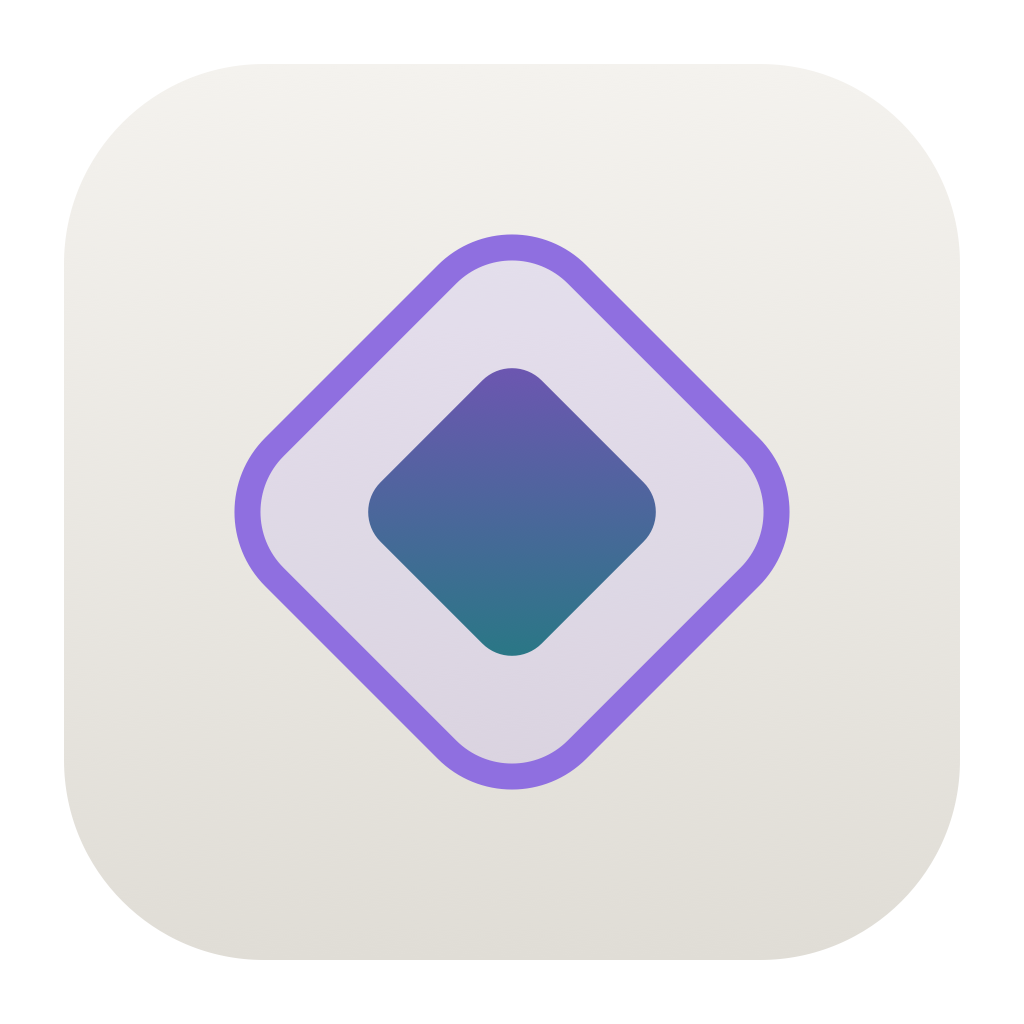
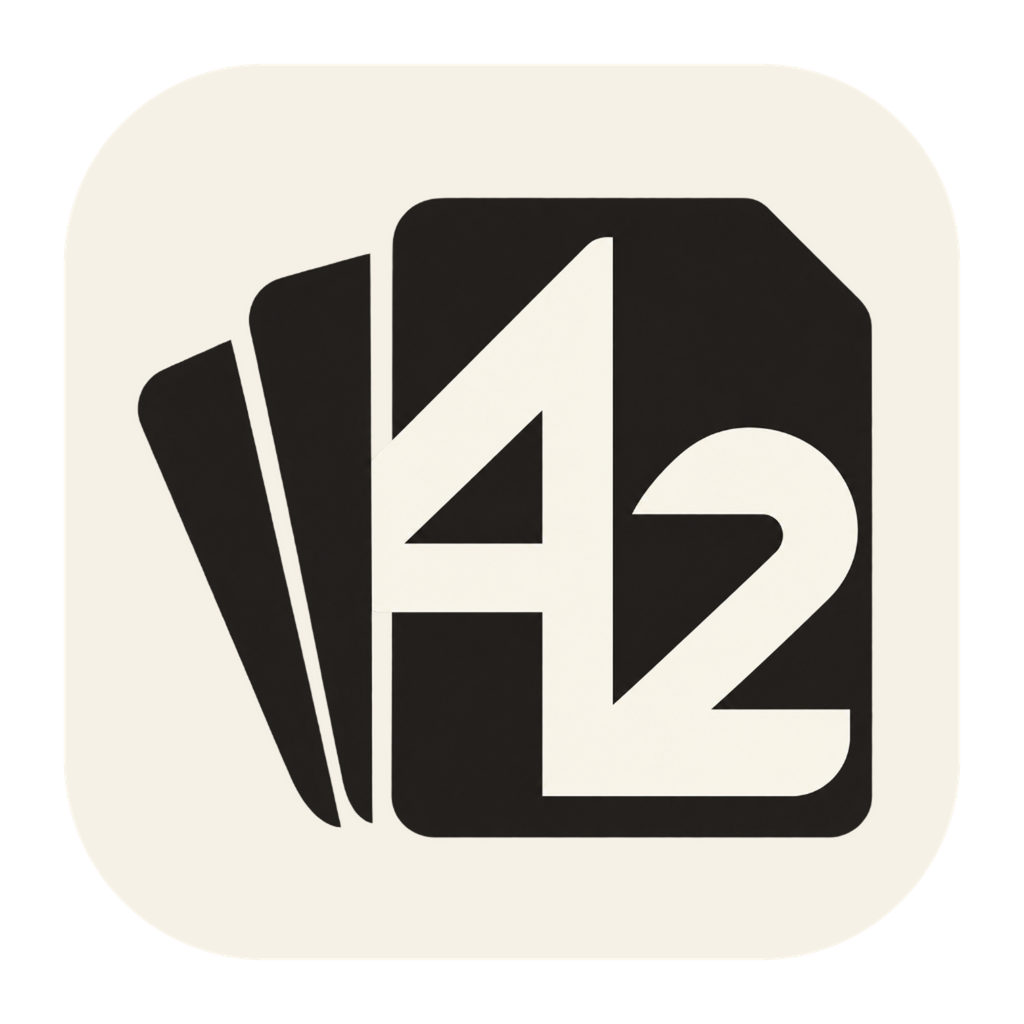
Integrate the Pick 42 card monogram across app branding

diff --git a/src/draft-renderer/styles.css b/src/draft-renderer/styles.css
@@ -2,6 +2,8 @@
 :root {
   color-scheme: light;
   --ink: #29252b;
+  --brand-ink: #252320;
+  --brand-paper: #f6f1e7;
   --muted: #625d65;
   --quiet: #817b83;
   --line: rgba(47, 42, 50, .14);
@@ -87,20 +89,16 @@ button { color: inherit; }
 }
 
 .brand-mark {
-  position: relative;
-  width: 27px;
-  height: 27px;
-  margin: 0 11px 0 2px;
-  border: 1px solid rgba(163, 131, 255, 0.65);
-  border-radius: 9px;
-  transform: rotate(45deg);
-  background: rgba(163, 131, 255, 0.13);
-  box-shadow: 0 0 22px rgba(163, 131, 255, 0.15);
+  display: block;
+  flex: 0 0 auto;
+  width: 44px;
+  height: 44px;
+  margin-right: 8px;
+  object-fit: contain;
 }
-.brand-mark span { position: absolute; inset: 7px; border-radius: 3px; background: linear-gradient(145deg, var(--violet), var(--cyan)); }
-.brand-copy { display: flex; min-width: 150px; flex-direction: column; line-height: 1; }
-.brand-copy strong { font-size: 14px; letter-spacing: .2em; }
-.brand-copy span { margin-top: 5px; color: var(--quiet); font-size: 11px; letter-spacing: .15em; }
+.brand-copy { display: flex; min-width: 134px; flex: 0 0 auto; flex-direction: column; line-height: 1; }
+.brand-copy strong { color: var(--brand-ink); font-size: 18px; font-weight: 850; letter-spacing: .025em; }
+.brand-copy span { margin-top: 5px; color: var(--muted); font-size: 9px; letter-spacing: .14em; }
 
 .view-switch { -webkit-app-region: no-drag; display: flex; gap: 3px; margin-left: 8px; padding: 3px; border: 1px solid var(--line); border-radius: 9px; background: rgba(255,255,255,.02); }
 .view-button { display: flex; min-height: 28px; align-items: center; gap: 5px; padding: 5px 8px; border: 0; border-radius: 6px; color: var(--quiet); background: none; font-size: 10px; font-weight: 850; letter-spacing: .09em; cursor: pointer; }
@@ -669,20 +667,16 @@ button { color: inherit; }
   background: rgba(7,7,10,.32);
 }
 .build-brand-mark {
-  position: relative;
-  width: 23px;
-  height: 23px;
-  margin: 0 10px 0 3px;
-  border: 1px solid rgba(163,131,255,.68);
-  border-radius: 7px;
-  transform: rotate(45deg);
-  background: rgba(163,131,255,.13);
-  box-shadow: 0 0 18px rgba(163,131,255,.18);
+  display: block;
+  flex: 0 0 auto;
+  width: 40px;
+  height: 40px;
+  margin-right: 8px;
+  object-fit: contain;
 }
-.build-brand-mark span { position: absolute; inset: 6px; border-radius: 2px; background: linear-gradient(145deg, var(--violet), var(--cyan)); }
 .build-brand-copy { display: flex; flex-direction: column; line-height: 1; }
-.build-brand-copy strong { font-size: 13px; letter-spacing: .2em; }
-.build-brand-copy span { margin-top: 4px; color: var(--quiet); font-size: 9px; letter-spacing: .15em; }
+.build-brand-copy strong { color: var(--brand-ink); font-size: 16px; font-weight: 850; letter-spacing: .025em; }
+.build-brand-copy span { margin-top: 4px; color: var(--muted); font-size: 9px; letter-spacing: .14em; }
 .build-scene-pill {
   margin-left: auto;
   padding: 5px 7px;
@@ -938,7 +932,7 @@ button { color: inherit; }
     linear-gradient(145deg, #e7e4df 0%, #cbc8c2 68%);
   box-shadow: inset 0 1px rgba(255,255,255,.68);
 }
-.titlebar { background: rgba(247,245,241,.65); }
+.titlebar { background: var(--brand-paper); }
 .view-switch, .source-button { background: rgba(255,255,255,.3); }
 .view-button .view-count { background: rgba(48,42,52,.07); }
 .view-button.active { color: #60439f; background: rgba(112,84,179,.14); }
@@ -994,7 +988,7 @@ button { color: inherit; }
     linear-gradient(155deg, rgba(231,228,223,.99), rgba(198,194,188,.99));
   box-shadow: 0 22px 70px rgba(45,39,48,.3), inset 0 1px rgba(255,255,255,.65);
 }
-.build-titlebar { background: rgba(246,244,240,.58); }
+.build-titlebar { background: var(--brand-paper); }
 .build-archetype-tabs button, .visual-guide-toggle, .build-task-switch, .recipe-secondary, .recipe-queue-row, .build-task-row { background: rgba(255,255,255,.26); }
 .build-archetype-tabs button.active, .build-task-switch button.active { color: #5f439f; background: rgba(112,84,179,.14); }
 .build-progress-track { background: rgba(47,42,50,.1); }

diff --git a/src/renderer/styles.css b/src/renderer/styles.css
@@ -51,26 +51,16 @@ button { font: inherit; }
 }
 
 .brand-mark {
-  position: relative;
-  width: 27px;
-  height: 27px;
-  margin-right: 10px;
-  border: 1px solid rgba(157, 124, 255, 0.65);
-  border-radius: 9px;
-  transform: rotate(45deg);
-  background: linear-gradient(145deg, rgba(157, 124, 255, 0.32), rgba(107, 216, 223, 0.08));
-  box-shadow: 0 0 20px rgba(157, 124, 255, 0.22);
-}
-
-.brand-mark span {
-  position: absolute;
-  inset: 7px;
-  border-radius: 3px;
-  background: linear-gradient(145deg, var(--violet), var(--cyan));
+  display: block;
+  flex: 0 0 auto;
+  width: 36px;
+  height: 36px;
+  margin-right: 8px;
+  object-fit: contain;
 }
 
 .brand-copy { display: flex; flex-direction: column; line-height: 1; }
-.brand-copy strong { font-size: 12px; letter-spacing: 0.19em; }
+.brand-copy strong { font-size: 14px; font-weight: 850; letter-spacing: .025em; }
 .brand-copy span { margin-top: 5px; color: var(--quiet); font-size: 8px; letter-spacing: 0.15em; }
 
 .titlebar-actions { -webkit-app-region: no-drag; display: flex; gap: 4px; margin-left: auto; }

diff --git a/src/draft-renderer/index.html b/src/draft-renderer/index.html
@@ -10,7 +10,7 @@
   <body>
     <section class="app-shell">
       <header class="titlebar">
-        <div class="brand-mark" aria-hidden="true"><span></span></div>
+        <img class="brand-mark" src="../../assets/brand-mark.png" width="44" height="44" alt="" draggable="false">
         <div class="brand-copy">
           <strong>PICK 42</strong>
           <span>DRAFT COMPANION</span>
@@ -449,7 +449,7 @@
 
       <main id="build-view" class="build-overlay" hidden>
         <header class="build-titlebar">
-          <div class="build-brand-mark" aria-hidden="true"><span></span></div>
+          <img class="build-brand-mark" src="../../assets/brand-mark.png" width="40" height="40" alt="" draggable="false">
           <div class="build-brand-copy">
             <strong>PICK 42</strong>
             <span>RECIPE MODE</span>

diff --git a/src/renderer/index.html b/src/renderer/index.html
@@ -10,7 +10,7 @@
   <body>
     <section class="overlay-shell" aria-label="Pick 42 Arena Companion">
       <header class="titlebar">
-        <div class="brand-mark" aria-hidden="true"><span></span></div>
+        <img class="brand-mark" src="../../assets/icon.png" width="36" height="36" alt="" draggable="false">
         <div class="brand-copy">
           <strong>PICK 42</strong>
           <span>ARENA COMPANION</span>

diff --git a/docs/branding.md b/docs/branding.md
@@ -1,0 +1,33 @@
+# Pick 42 identity
+
+The approved identity combines three fanned cards with a connected 42 monogram.
+Use warm ink (`#252320`) and ivory (`#f6f1e7`) for the brand. Existing source,
+status and ranking colors retain their meanings.
+
+- `assets/brand-mark.png` is the transparent production mark, extracted from
+  the approved logo with the built-in image-generation tool. The shared draft
+  renderer uses it in the main header and Recipe Mode.
+- `assets/icon.svg` places that same mark on an ivory app tile. It references
+  `brand-mark.png` beside it; keep both files together.
+- `assets/icon.png` is the 1024-pixel native rendering used by the Dock, macOS
+  launcher, packaged application, match prototype and web favicon.
+
+Run `npm run build:icon` after changing the mark or SVG layout, then
+`npm run build:web`. The icon renderer uses temporary application storage and
+does not read or alter Pick 42 preferences. The normal macOS package and launcher
+scripts generate their ICNS sizes from `assets/icon.png`.
+
+Keep the visible wordmark as text in the app for crisp small-size typography.
+The adjacent mark has empty alternative text so assistive technology reads the
+product name once. The web builder copies and remaps the same renderer asset.
+
+## Production mark prompt
+
+Generated using the built-in image-generation tool, with the approved logo as
+the edit reference:
+
+Use case: precise-object-edit. Asset type: production application brand symbol.
+Edit the attached approved Pick 42 logo. Extract ONLY the three-card "42" emblem on the left; remove the entire PICK 42 wordmark and all surrounding empty space.
+Preserve the approved emblem faithfully: the exact three fanned card silhouettes, their angles and proportions, cropped upper-right corner on the front card, and especially the connected ivory 4 and 2 numeral design. Do not redesign or reinterpret any shape.
+Clean production artwork: solid flat warm near-black #252320 cards, solid flat warm ivory #faf6eb numerals. Clean crisp edges without texture, gradients, glow, outline halos or shadows.
+Center the isolated emblem on a genuinely transparent square canvas with only about 8% clear margin around its widest extent. The full emblem must be visible and large, with original aspect ratio preserved. No tile, no background, no text outside the emblem, no extra marks. This must be the SAME approved emblem prepared for small UI use.
